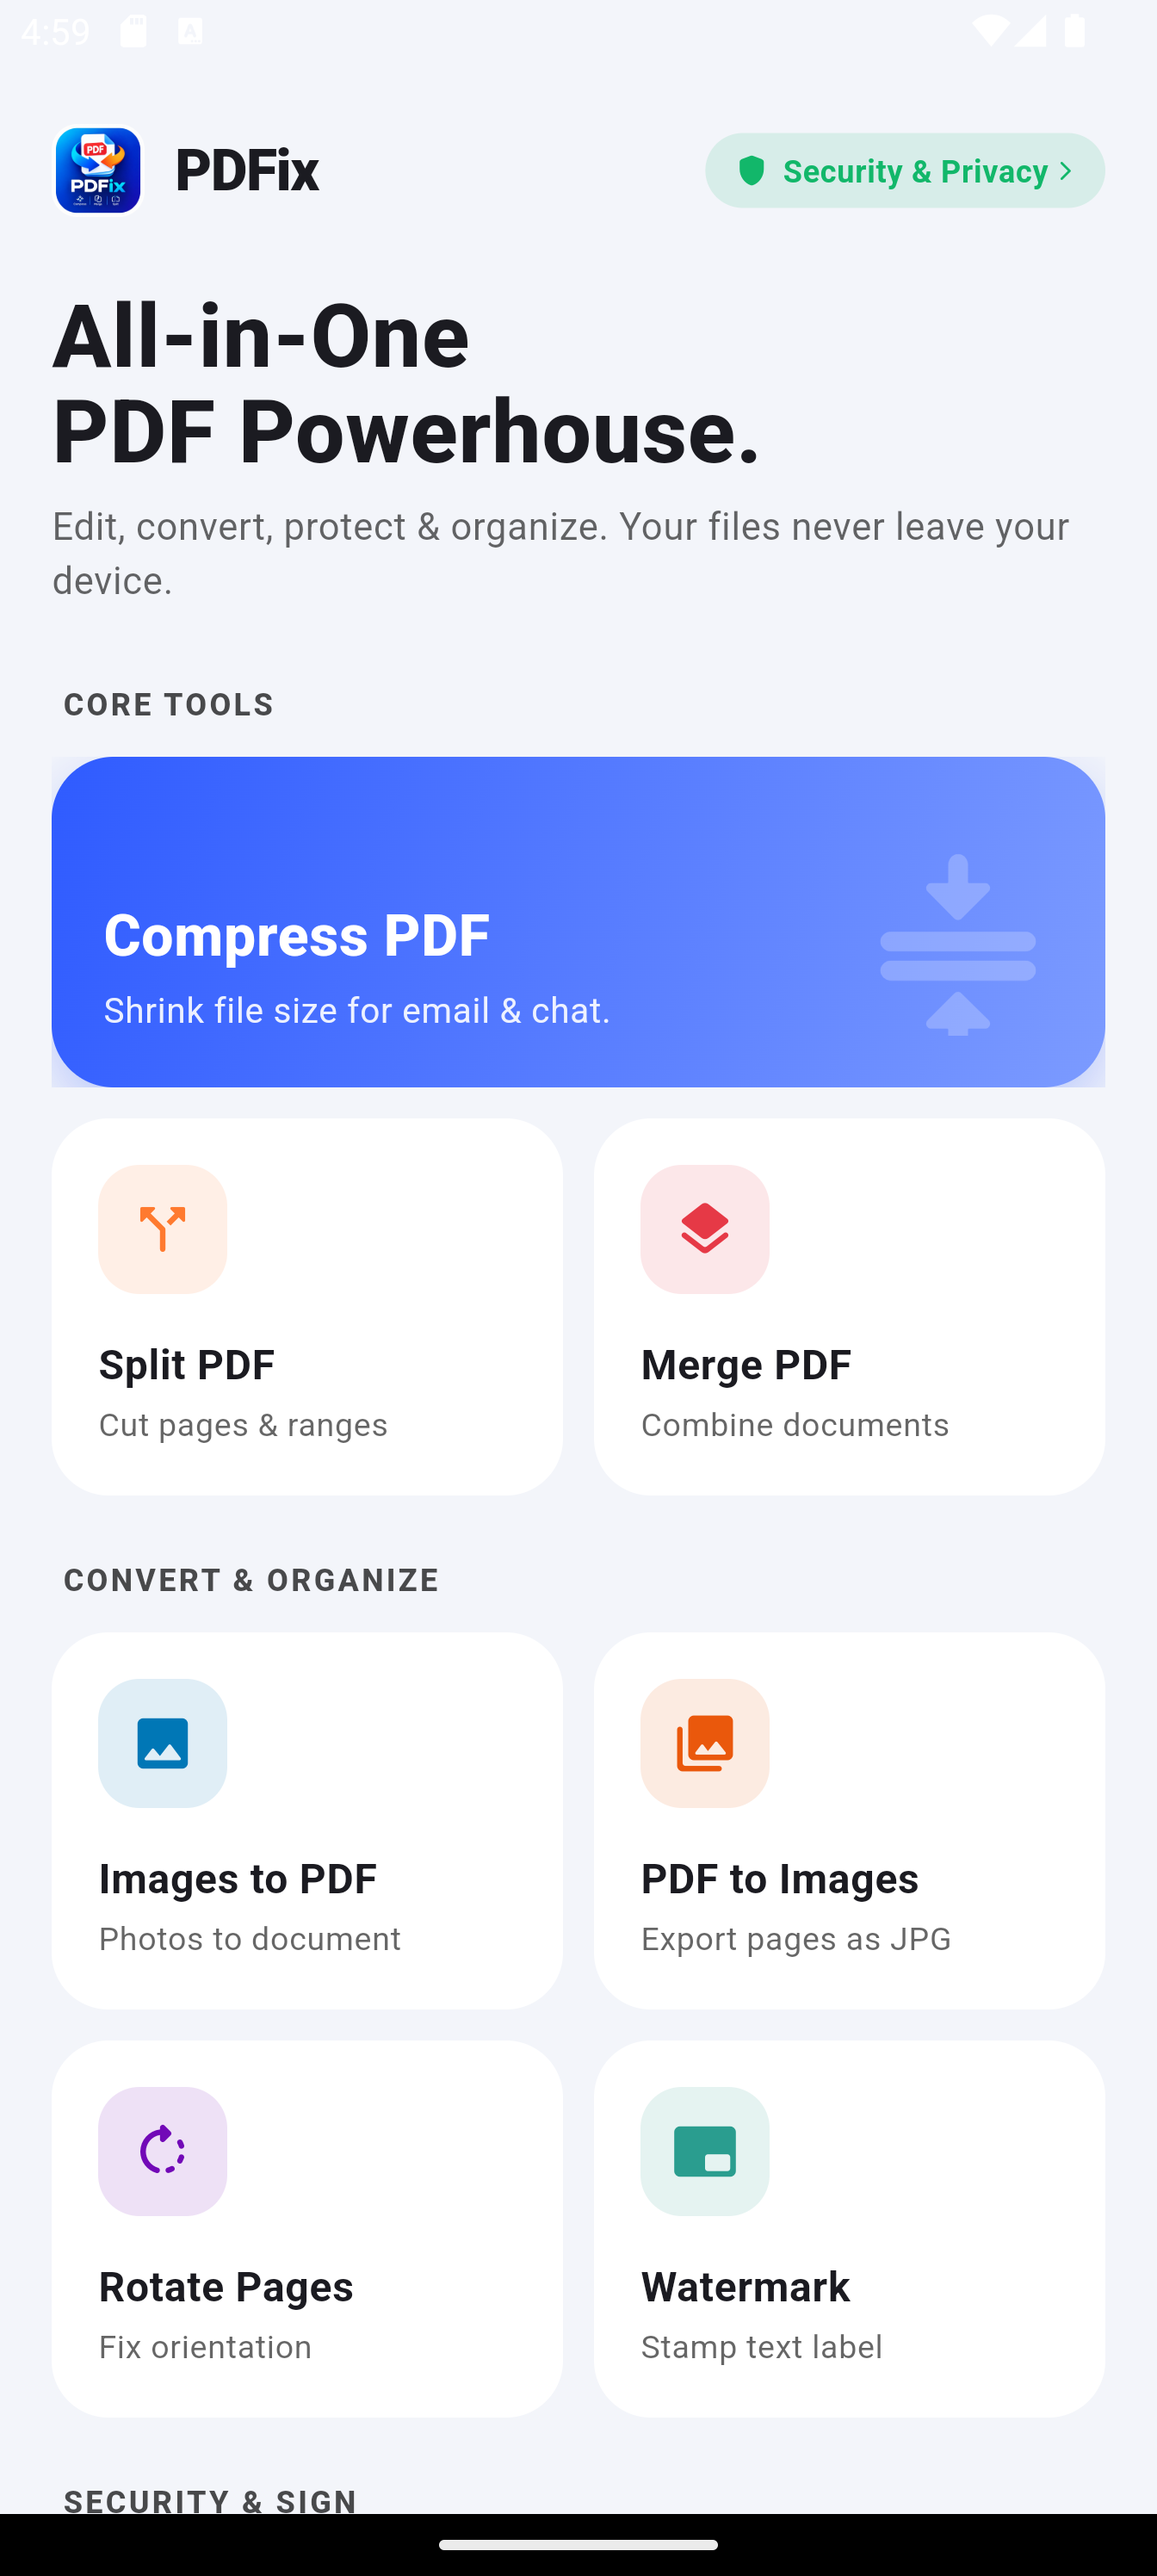
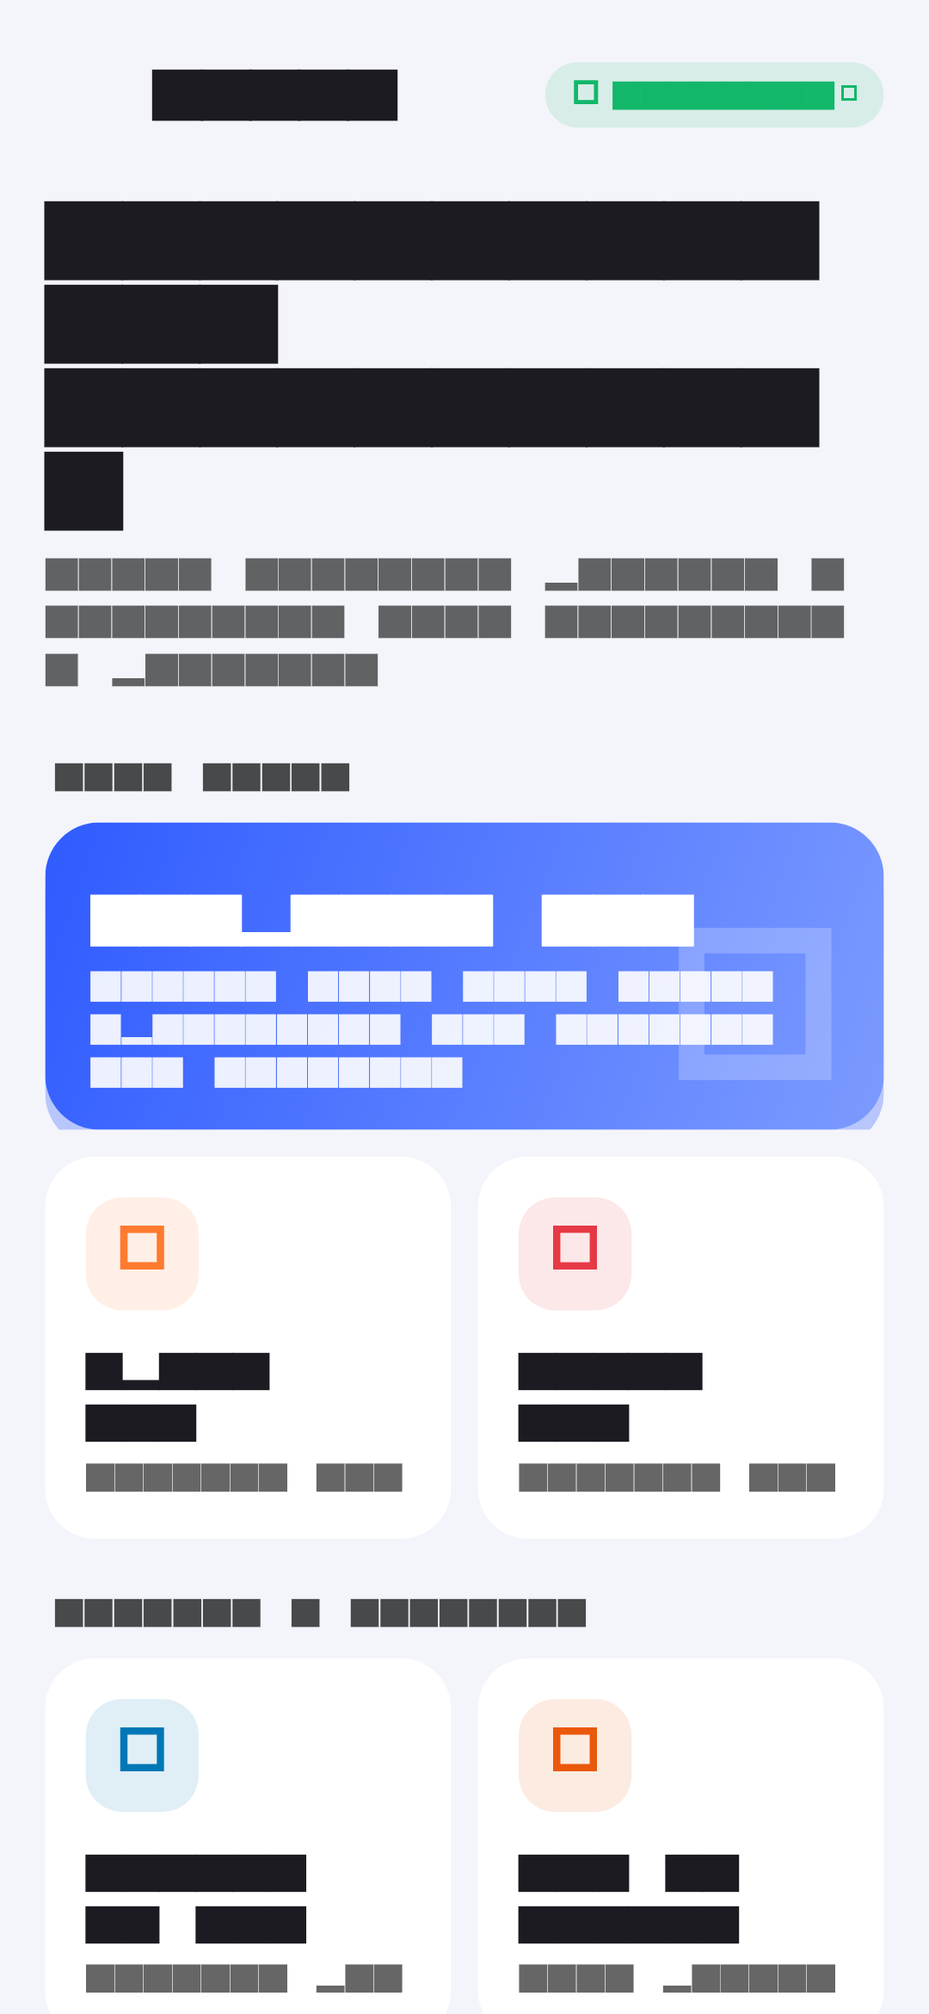
fix(home): prevent header & card flex overflow on compact screens; add golden tests

diff --git a/test/capture_screen_test.dart b/test/capture_screen_test.dart
@@ -1,0 +1,49 @@
+import 'package:flutter/material.dart';
+import 'package:flutter_test/flutter_test.dart';
+import 'package:pdf_toolkit/screens/compress_screen.dart';
+import 'package:pdf_toolkit/screens/home_screen.dart';
+import 'package:pdf_toolkit/theme.dart';
+
+void main() {
+  testWidgets('Capture CompressScreen screenshot', (WidgetTester tester) async {
+    tester.view.physicalSize = const Size(1080, 2340);
+    tester.view.devicePixelRatio = 2.625;
+    addTearDown(tester.view.resetPhysicalSize);
+    addTearDown(tester.view.resetDevicePixelRatio);
+
+    await tester.pumpWidget(
+      MaterialApp(
+        debugShowCheckedModeBanner: false,
+        theme: buildTheme(Brightness.light),
+        home: const CompressScreen(),
+      ),
+    );
+    await tester.pumpAndSettle();
+
+    await expectLater(
+      find.byType(MaterialApp),
+      matchesGoldenFile('goldens/screen_compress_updated.png'),
+    );
+  });
+
+  testWidgets('Capture HomeScreen screenshot', (WidgetTester tester) async {
+    tester.view.physicalSize = const Size(1080, 2340);
+    tester.view.devicePixelRatio = 2.625;
+    addTearDown(tester.view.resetPhysicalSize);
+    addTearDown(tester.view.resetDevicePixelRatio);
+
+    await tester.pumpWidget(
+      MaterialApp(
+        debugShowCheckedModeBanner: false,
+        theme: buildTheme(Brightness.light),
+        home: const HomeScreen(),
+      ),
+    );
+    await tester.pumpAndSettle();
+
+    await expectLater(
+      find.byType(MaterialApp),
+      matchesGoldenFile('goldens/screen_home_updated.png'),
+    );
+  });
+}

diff --git a/lib/screens/home_screen.dart b/lib/screens/home_screen.dart
@@ -91,7 +91,7 @@ class _HomeScreenState extends State<HomeScreen> {
                     child: const Row(mainAxisSize: MainAxisSize.min, children: [
                       Icon(Icons.shield_rounded, size: 14, color: Brand.success),
                       SizedBox(width: 5),
-                      Text('Security & Privacy',
+                      Text('Security',
                           style: TextStyle(fontSize: 12, fontWeight: FontWeight.w700, color: Brand.success)),
                       SizedBox(width: 2),
                       Icon(Icons.arrow_forward_ios_rounded, size: 9, color: Brand.success),
@@ -302,8 +302,8 @@ class _BigToolCard extends StatelessWidget {
         onTap: onTap,
         borderRadius: BorderRadius.circular(24),
         child: Ink(
-          height: 128,
-          padding: const EdgeInsets.all(20),
+          height: 136,
+          padding: const EdgeInsets.symmetric(horizontal: 20, vertical: 16),
           decoration: BoxDecoration(
             gradient: LinearGradient(colors: [a, b], begin: Alignment.topLeft, end: Alignment.bottomRight),
             borderRadius: BorderRadius.circular(24),
